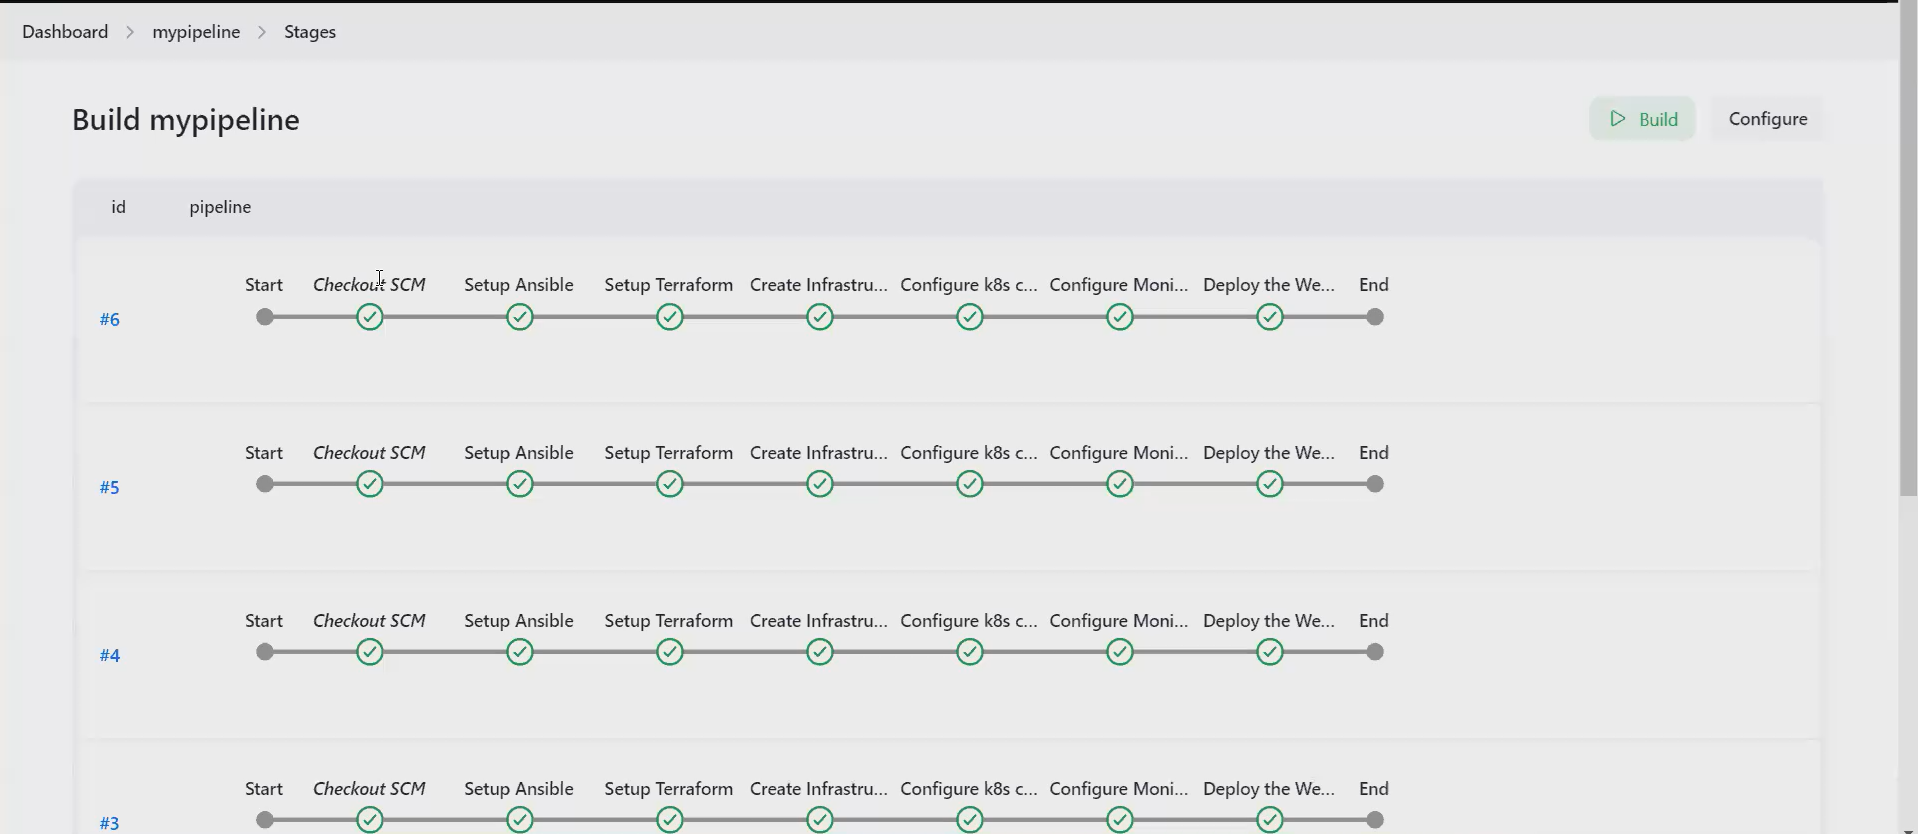
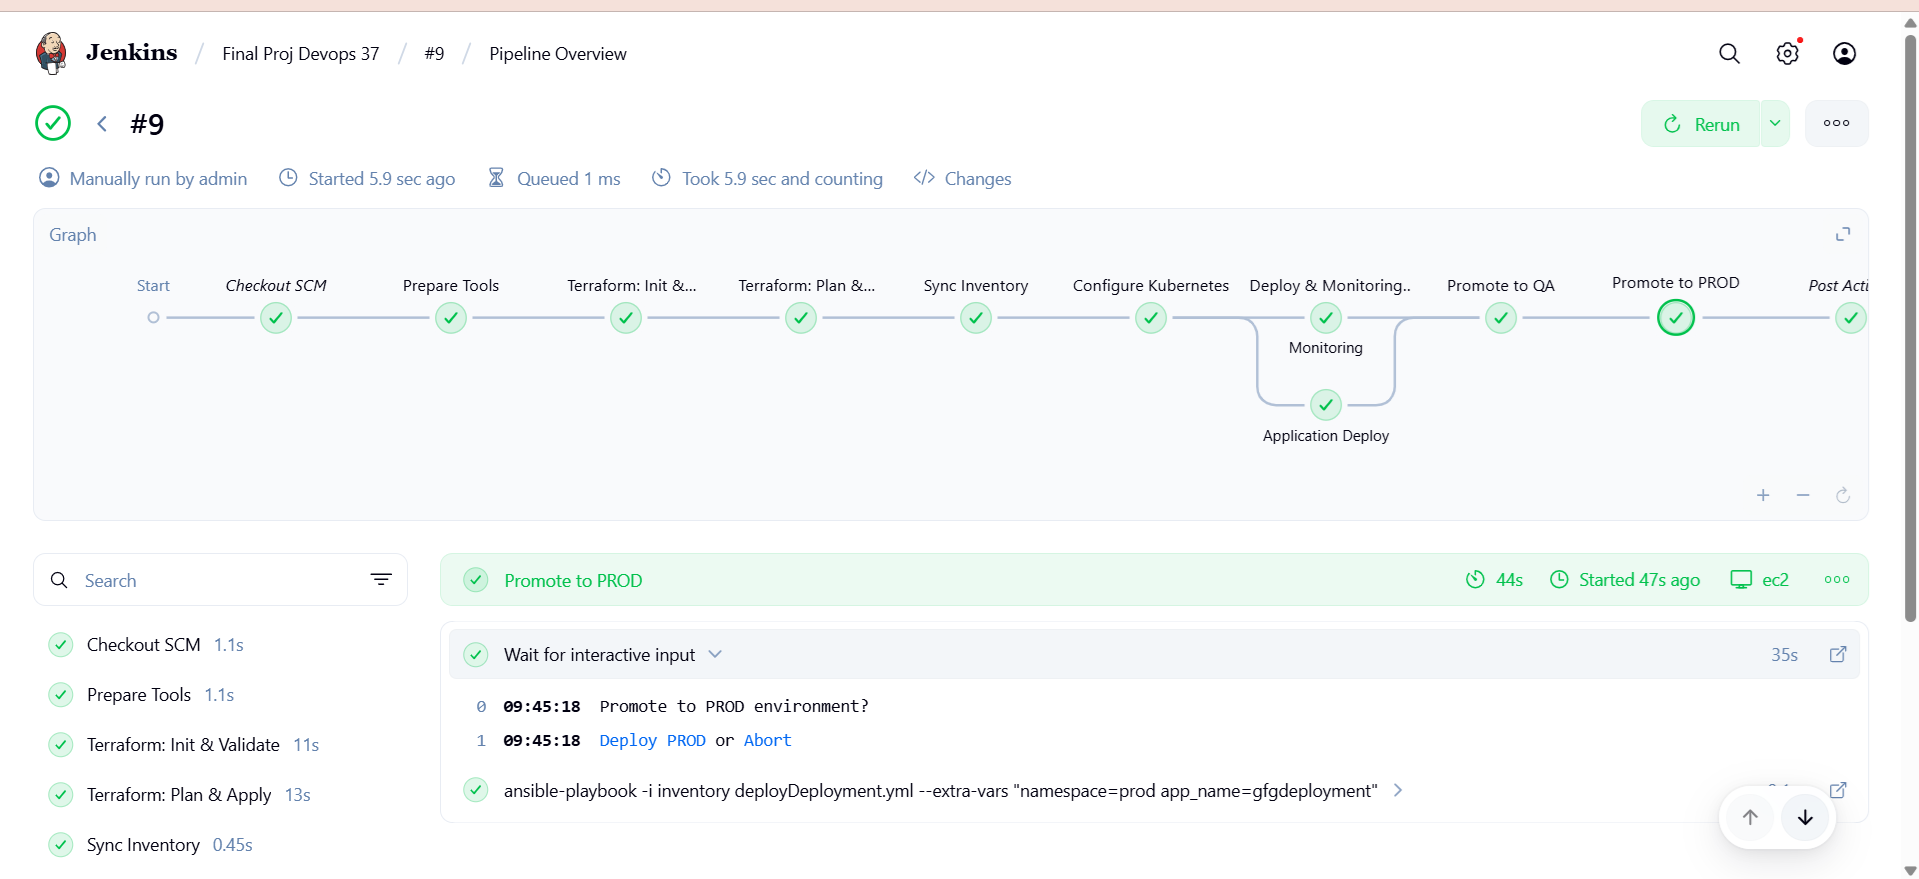
Updated the documentation

diff --git a/README.md b/README.md
@@ -45,7 +45,7 @@ My recorded session for this project is uploaded on GeeksForGeeks - https://www.
 - Provide AWS credentials on the Jenkins slave node using _#awS configure_ or store them in Jenkins secrets, and then further add a step in `Jenkinsfile` to configure AWS credentials automatically. Terraform will use these credentials.
 
 ### Step 8 Run the Pipeline
-- Trigger the pipeline in Jenkins and ensure all steps are executed correctly.
+- Trigger the pipeline in Jenkins With Parameters and ensure all steps are executed correctly.
 
 ### Step 9 Make Changes and Test
 - Make changes in your code locally, push to GitHub, and create a pull request.
@@ -60,10 +60,13 @@ My recorded session for this project is uploaded on GeeksForGeeks - https://www.
 - Configure multi node k8s cluster on the created infrastructure
 - Configure Monitoring Tool
 - Deploy the Webserver
+- Promote to QA
+- Promote to PROD
 - ![Jenkins Pipeline Stage View](Screenshots/jenkinspipeline.png)
 
 ### Step 11: Access the Deployed Webserver
-- Visit http://<your-K8sNode-ip>:8080 to see the deployed webserver.
+- Visit http://<your-K8sNode-ip>:NodePort to see the deployed webserver.
+- Webserver will be deployed in respective namespace, like dev, qa, prod
 
 
 ### Step 12 Create Grafana Dashboard: 